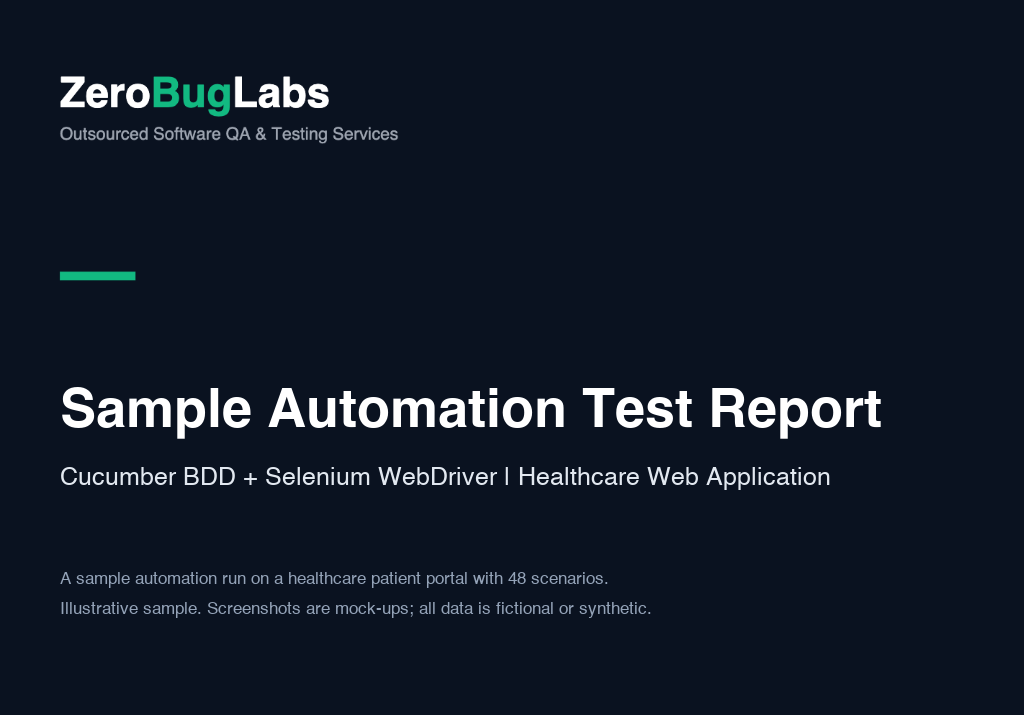
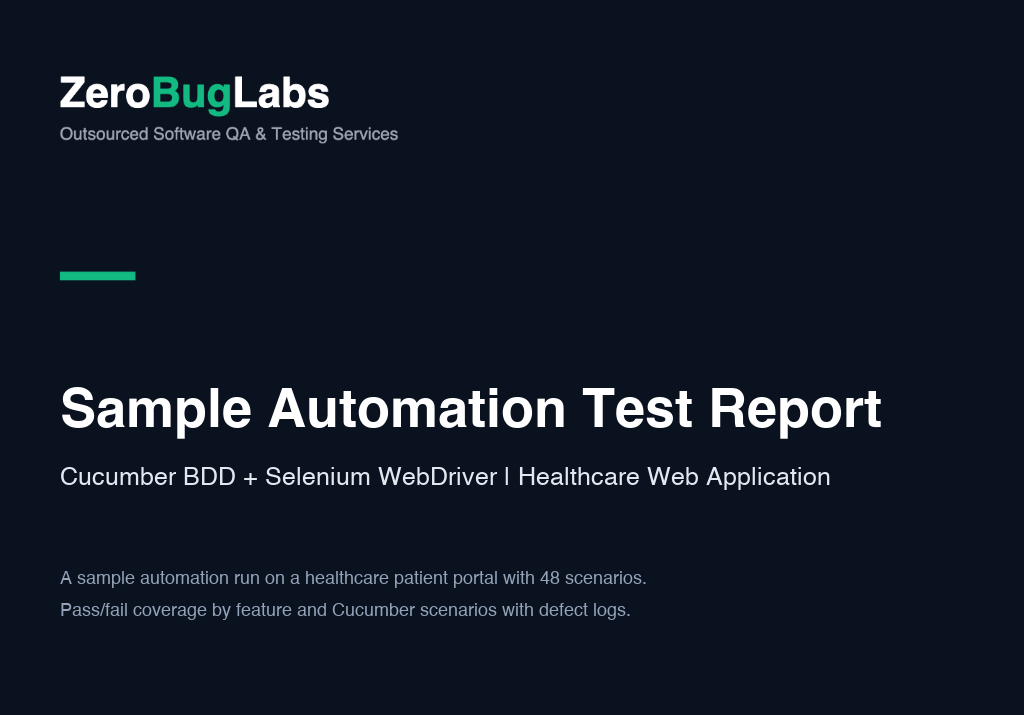
fix: remove page count badges, findings badge, and synthetic disclaimer note

Changed region(s): [[0.0625, 0.8, 0.625, 0.8615]]

diff --git a/components/SampleReports.tsx b/components/SampleReports.tsx
@@ -21,7 +21,7 @@ const REPORTS: ReportItem[] = [
     title: 'Sample QA Report: Security, API, Functional and UI Testing',
     description:
       'Eight anonymized findings from real web and mobile QA work. Each finding includes severity, steps to reproduce, actual vs expected result, impact and recommended fix.',
-    highlights: ['7 pages', '8 findings', '1 Critical, 2 High, 4 Medium, 1 Low'],
+    highlights: ['1 Critical, 2 High, 4 Medium, 1 Low'],
     tags: ['Security', 'API', 'Mobile', 'Manual Testing'],
     file: '/reports/ZeroBugLabs-Sample-QA-Report-Updated.pdf',
     downloadFilename: 'ZeroBugLabs-Sample-QA-Report.pdf',
@@ -33,13 +33,12 @@ const REPORTS: ReportItem[] = [
     title: 'Healthcare Automation Report: Cucumber BDD + Selenium',
     description:
       'A sample automation run on a healthcare patient portal. Includes pass/fail coverage by feature, 6 defects with screenshots, and the Cucumber scenario that caught each one.',
-    highlights: ['10 pages', '48 scenarios', '6 defects', '83.3% pass rate'],
+    highlights: ['48 scenarios', '6 defects', '83.3% pass rate'],
     tags: ['Automation', 'Cucumber', 'Selenium', 'Healthcare'],
     file: '/reports/ZeroBugLabs-Healthcare-Automation-Bug-Report.pdf',
     downloadFilename: 'ZeroBugLabs-Healthcare-Automation-Report.pdf',
     thumbnail: '/reports/healthcare-automation-report-thumb.png',
     thumbAlt: 'ZeroBugLabs Healthcare Automation Test Report cover page showcasing Cucumber BDD + Selenium WebDriver execution',
-    note: 'Illustrative sample. Screenshots are mock-ups and all patient data is synthetic.',
   },
 ];
 
@@ -149,17 +148,6 @@ export default function SampleReports() {
                     </span>
                   ))}
                 </div>
-
-                {/* Optional Note (Placed above actions so buttons always align at bottom) */}
-                {report.note && (
-                  <div className="report-card-note">
-                    <svg width="14" height="14" viewBox="0 0 16 16" fill="currentColor" aria-hidden="true" style={{ flexShrink: 0, color: '#10B981', opacity: 0.9 }}>
-                      <path d="M8 15A7 7 0 1 1 8 1a7 7 0 0 1 0 14zm0 1A8 8 0 1 0 8 0a8 8 0 0 0 0 16z"/>
-                      <path d="m8.93 6.588-2.29.287-.082.38.45.083c.294.07.352.176.288.469l-.738 3.468c-.194.897.105 1.319.808 1.319.545 0 1.178-.252 1.465-.598l.088-.416c-.2.176-.492.246-.686.246-.275 0-.375-.193-.304-.533L8.93 6.588zM9 4.5a1 1 0 1 1-2 0 1 1 0 0 1 2 0z"/>
-                    </svg>
-                    <span>{report.note}</span>
-                  </div>
-                )}
 
                 {/* Buttons (Pinned cleanly to bottom) */}
                 <div className="report-card-actions">
